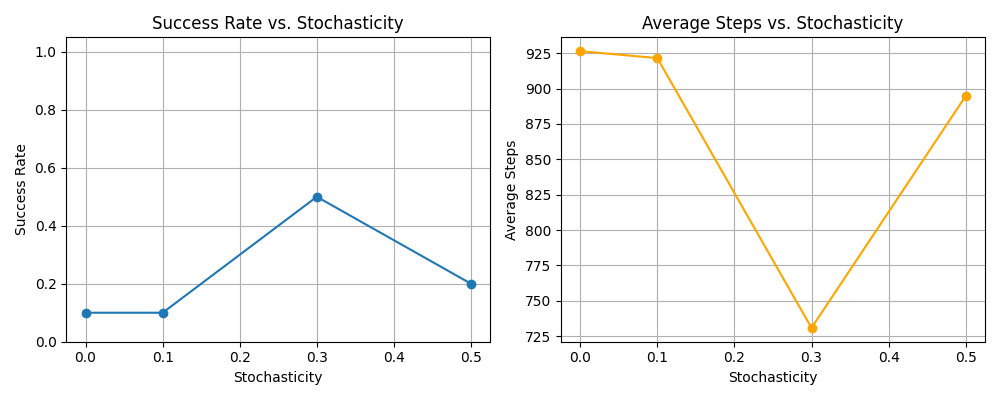
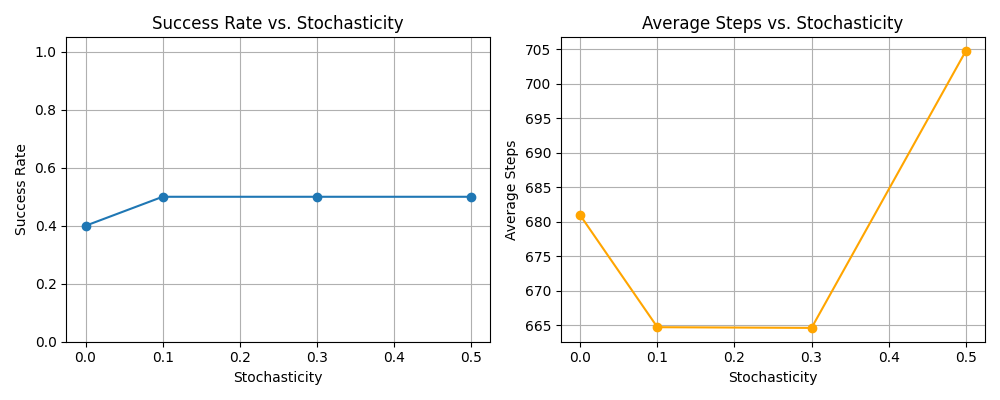
Changed Experiments

diff --git a/world/environment.py b/world/environment.py
@@ -172,7 +172,7 @@ class Environment(gym.Env):
         # Call reset to finish initializing the environment
         self.reset()
     
-    def reset(self, no_gui=True, seed=None, agent_start_pos=False, difficulty=None, extra_obstacles=None, number_of_items=None, battery_drain_per_step=None, options=None):
+    def reset(self, no_gui=True, seed=None, agent_start_pos=False, difficulty=None, extra_obstacles=None, number_of_items=None, battery_drain_per_step=None, options=None, delivery_zones=None):
         """
         Resetting the environment for a new task for the agent. This involves spawning packages/items, delivery points, the agent itself. 
         It also involves initializing some attributes to the environment and the agent, such as: that it is not carrying any items/packages, 
@@ -197,6 +197,8 @@ class Environment(gym.Env):
             # Implicit else: we keep the self.extra_obstacles from the initialization above, which is an empty list for None
         # Combine all obstacles for collision detection 
         self.all_obstacles = self.racks + self.extra_obstacles
+        if delivery_zones is not None:
+            self.delivery_zones = delivery_zones
         if difficulty is not None:
             self.difficulty = difficulty
         if number_of_items is not None:
@@ -208,12 +210,14 @@ class Environment(gym.Env):
         self.item_starts = sample_points_in_rectangles(
             self.item_spawn, self.number_of_items, self.item_radius, self.all_obstacles)  # spawn/initialize packages/items
         self.delivery_points = sample_points_in_rectangles(
-            self.delivery_zones, self.number_of_items, self.delivery_radius, self.all_obstacles, self.difficulty_region)  # choose delivery spots
+            self.delivery_zones, self.number_of_items, self.delivery_radius, self.all_obstacles, self.difficulty_region)
+
         if not agent_start_pos:  # randomly sample agent position if none is supplied.
             self.agent_pos = np.array(sample_one_point_outside(
                 self.all_obstacles, self.agent_radius, (0, 0, self.width, self.height), self.difficulty_region))
         else:
             self.agent_pos = np.array(agent_start_pos)  # Use given starting position
+
         self.vision_triangle = calc_vision_triangle(self.agent_pos, self.orientation, self.max_range, self.agent_radius)
         self.items = [np.array(pos, dtype=np.float32) for pos in self.item_starts] 
         self.delivered = [False] * len(self.items)
@@ -253,7 +257,7 @@ class Environment(gym.Env):
         if env_stochasticity and not collided:  # if not collided, new_pos and correct_new_pos are the same --> intuition slippery-ness only has effect when no collisions happen
             old_pos_extra = self.agent_pos.copy()
             # Repeat same code as above
-            self.orientation, new_pos = calc_new_position(action, self.speed, self.orientation, self.agent_angle, self.agent_pos, self.step_size)
+            self.orientation, new_pos, self.speed = calc_new_position(action, self.speed, self.orientation, self.agent_angle, self.agent_pos, self.step_size)
             self.agent_pos, collided = calc_collision(old_pos_extra, new_pos, self.agent_radius, self.width, self.height, self.all_obstacles)      
 
         # if collided set speed to 0

diff --git a/evaluate_trained_dqn_niek.py b/evaluate_trained_dqn_niek.py
@@ -8,14 +8,21 @@ from world.environment import Environment
 from tqdm import trange
 import numpy as np
 import argparse
+from world.utils.env_init import (
+    create_delivery_zones,
+)
 
 RESULTS_DIR = Path("results")
 RESULTS_DIR.mkdir(exist_ok=True)
 RESULTS_TXT = RESULTS_DIR / "stochasticity_results.txt"
 
 
-def run_episode(env, agent, max_steps=1000):
-    state, _ = env.reset()
+def run_episode(env, agent, name_exp, delivery_zones=None, max_steps=1000):
+    if name_exp != "target_distance":
+        state, _ = env.reset()
+    else:
+        state, _ = env.reset(delivery_zones=delivery_zones)
+    
     total_reward = 0
     steps = 0
     for _ in range(max_steps):
@@ -36,7 +43,7 @@ def experiment_stochasticity(agent, levels=(0.0, 0.1, 0.3, 0.5)):
         steps_record = []
         for _ in range(10):
             env = Environment(sigma=sigma)
-            success, steps = run_episode(env, agent)
+            success, steps = run_episode(env, agent, "stochasticity")
             if success:
                 successes += 1
             steps_record.append(steps)
@@ -59,7 +66,7 @@ def experiment_difficulty(agent):
         for _ in range(10):
             env = Environment(extra_obstacles=extra_obstacles)
             env.reset(extra_obstacles=extra_obstacles)
-            success, steps = run_episode(env, agent)
+            success, steps = run_episode(env, agent, "difficulty")
             if success:
                 successes += 1
             steps_record.append(steps)
@@ -75,18 +82,21 @@ def experiment_target_distance(agent):
     success_rates = []
     avg_steps = []
     for i in levels:
-        margin = 2 + i * 1.5
+        '''
+        margin = 10 + i * 0.5
         delivery_zones = [
             (15 - margin, 1, 16 - margin, 2),
             (15 + margin, 8, 16 + margin, 9)
         ]
+        '''
+        env = Environment()
+        delivery_zones = create_delivery_zones(env.racks, env.width, env.height, margin=0.5 + i * 0.2)
         successes = 0
         steps_record = []
         for _ in range(10):
             env = Environment()
-            env.delivery_zones = delivery_zones
-            env.reset()
-            success, steps = run_episode(env, agent)
+            env.reset(delivery_zones=delivery_zones)
+            success, steps = run_episode(env, agent, "target_distance")
             if success:
                 successes += 1
             steps_record.append(steps)
@@ -128,12 +138,14 @@ def append_to_txt(title, x, success_rates, steps):
 
 
 def evaluate(model_path: Path):
-    agent = DQNAgent.load(str(model_path), state_size=11, action_size=6)
+    agent = DQNAgent.load(str(model_path), state_size=15, action_size=6)
     agent.epsilon = 0.0
     experiment_stochasticity(agent)
+    print("Experiment Stochasticity Finished!")
     experiment_difficulty(agent)
+    print("Experiment Difficulty Finished!")
     experiment_target_distance(agent)
-
+    print("Experiment Target Distance Finished!!")
 
 if __name__ == "__main__":
     p = argparse.ArgumentParser()
